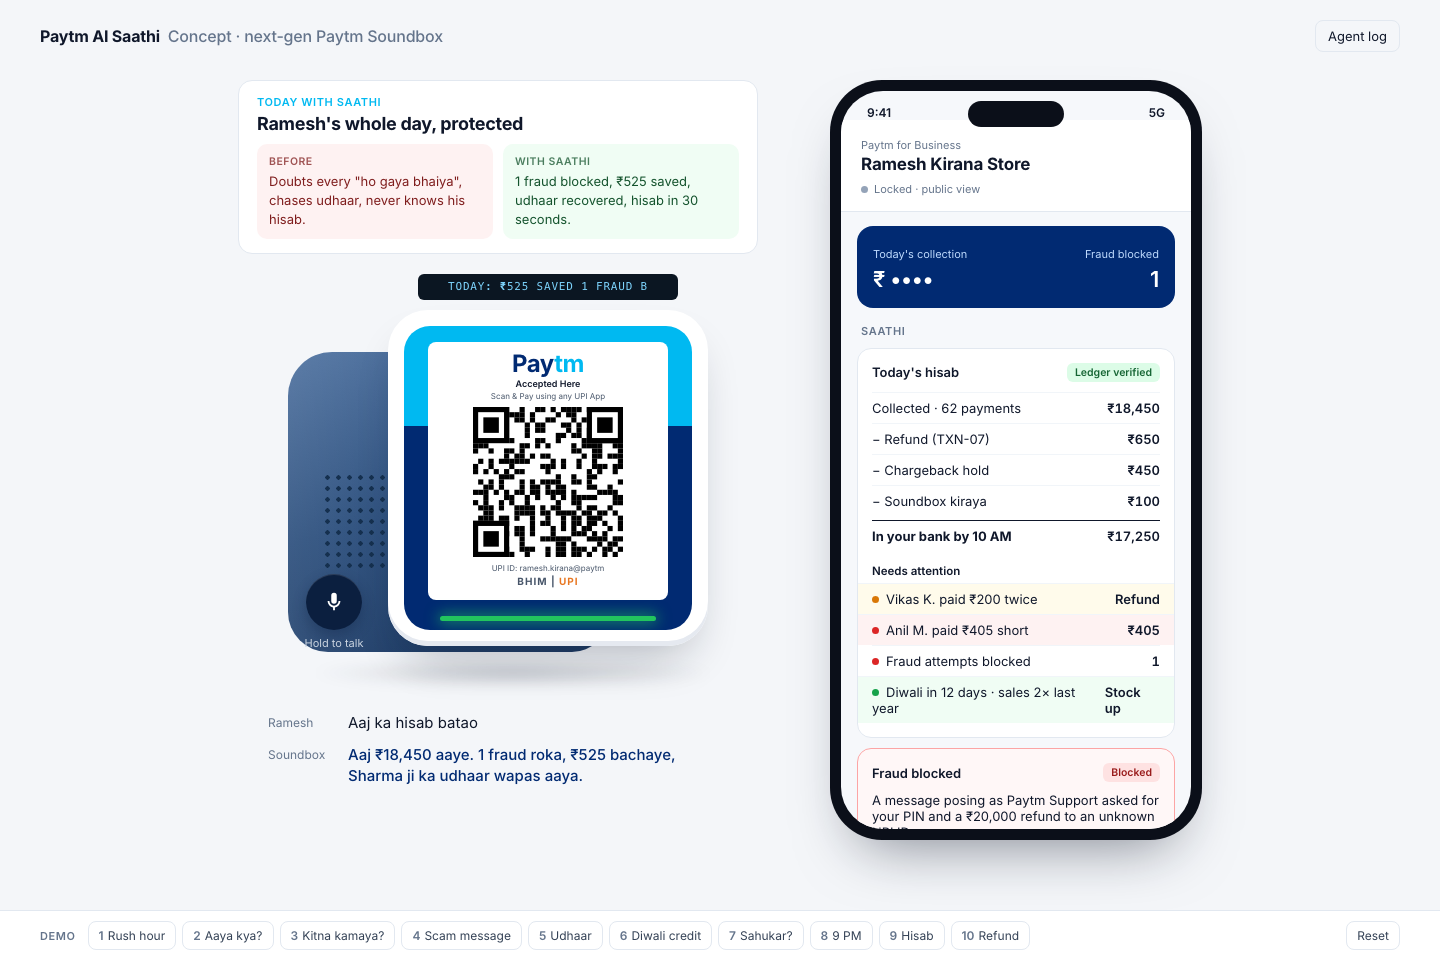
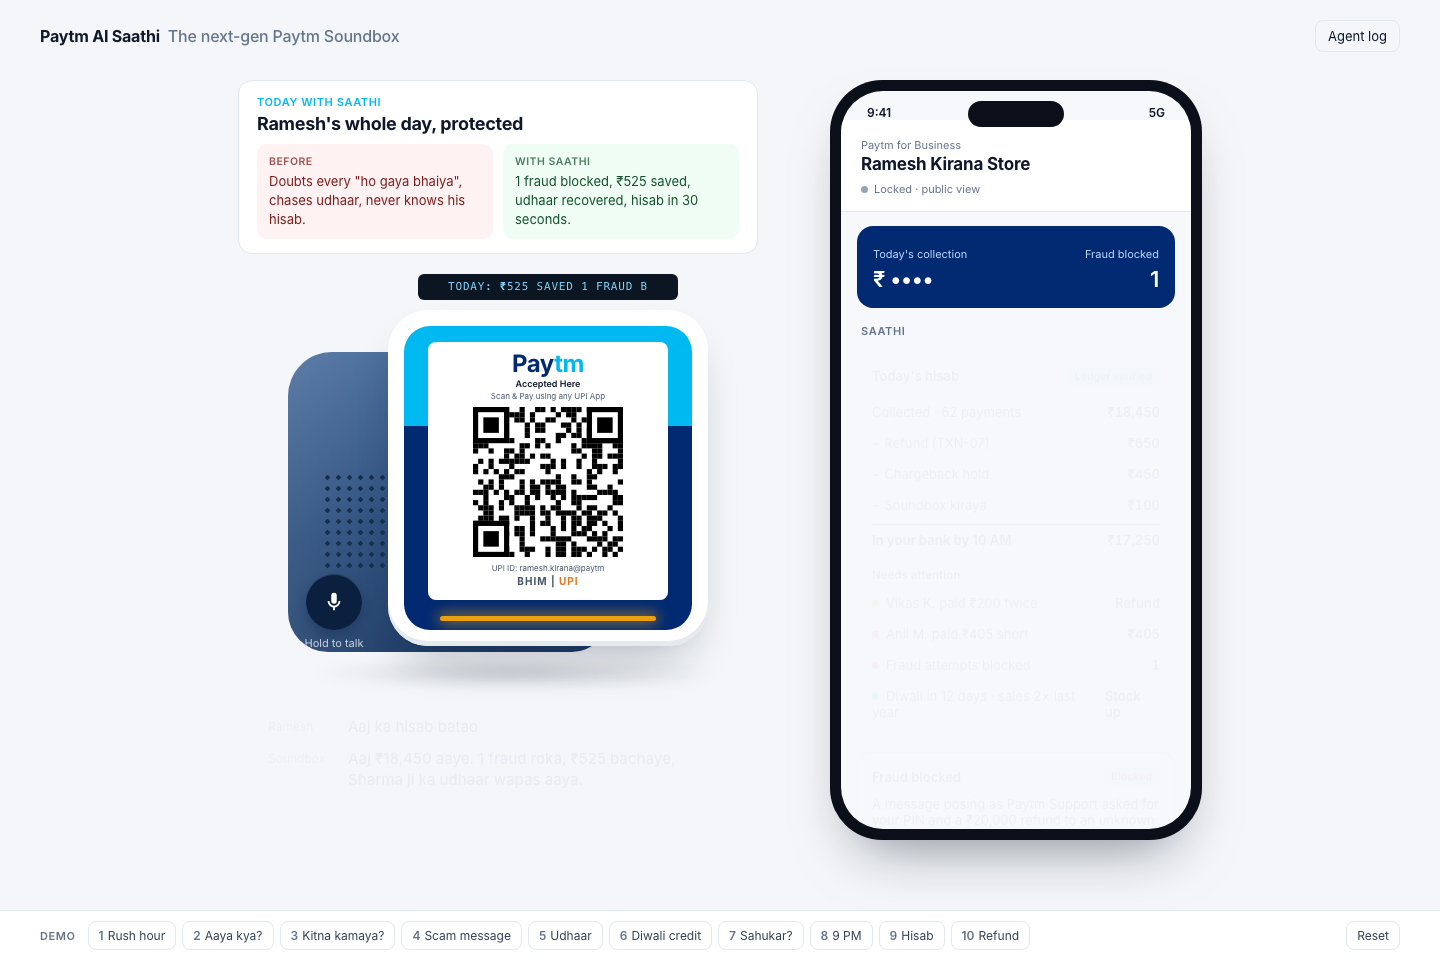
Drop 'concept' wording

diff --git a/public/index.html b/public/index.html
@@ -94,7 +94,7 @@ canvas{margin:6px 0 4px}
 .k-plan i{color:#93C5FD}.k-tool i{color:#FCD34D}.k-gate i{color:#FCA5A5}.k-check i{color:#86EFAC}.k-mem i{color:#C4B5FD}.k-input i{color:#FDBA74}
 </style></head><body>
 <div class="top">
-  <div class="brand">Paytm AI Saathi<span>Concept · next-gen Paytm Soundbox</span></div>
+  <div class="brand">Paytm AI Saathi<span>The next-gen Paytm Soundbox</span></div>
   <button class="ghost" id="logbtn">Agent log</button>
 </div>
 <main>
